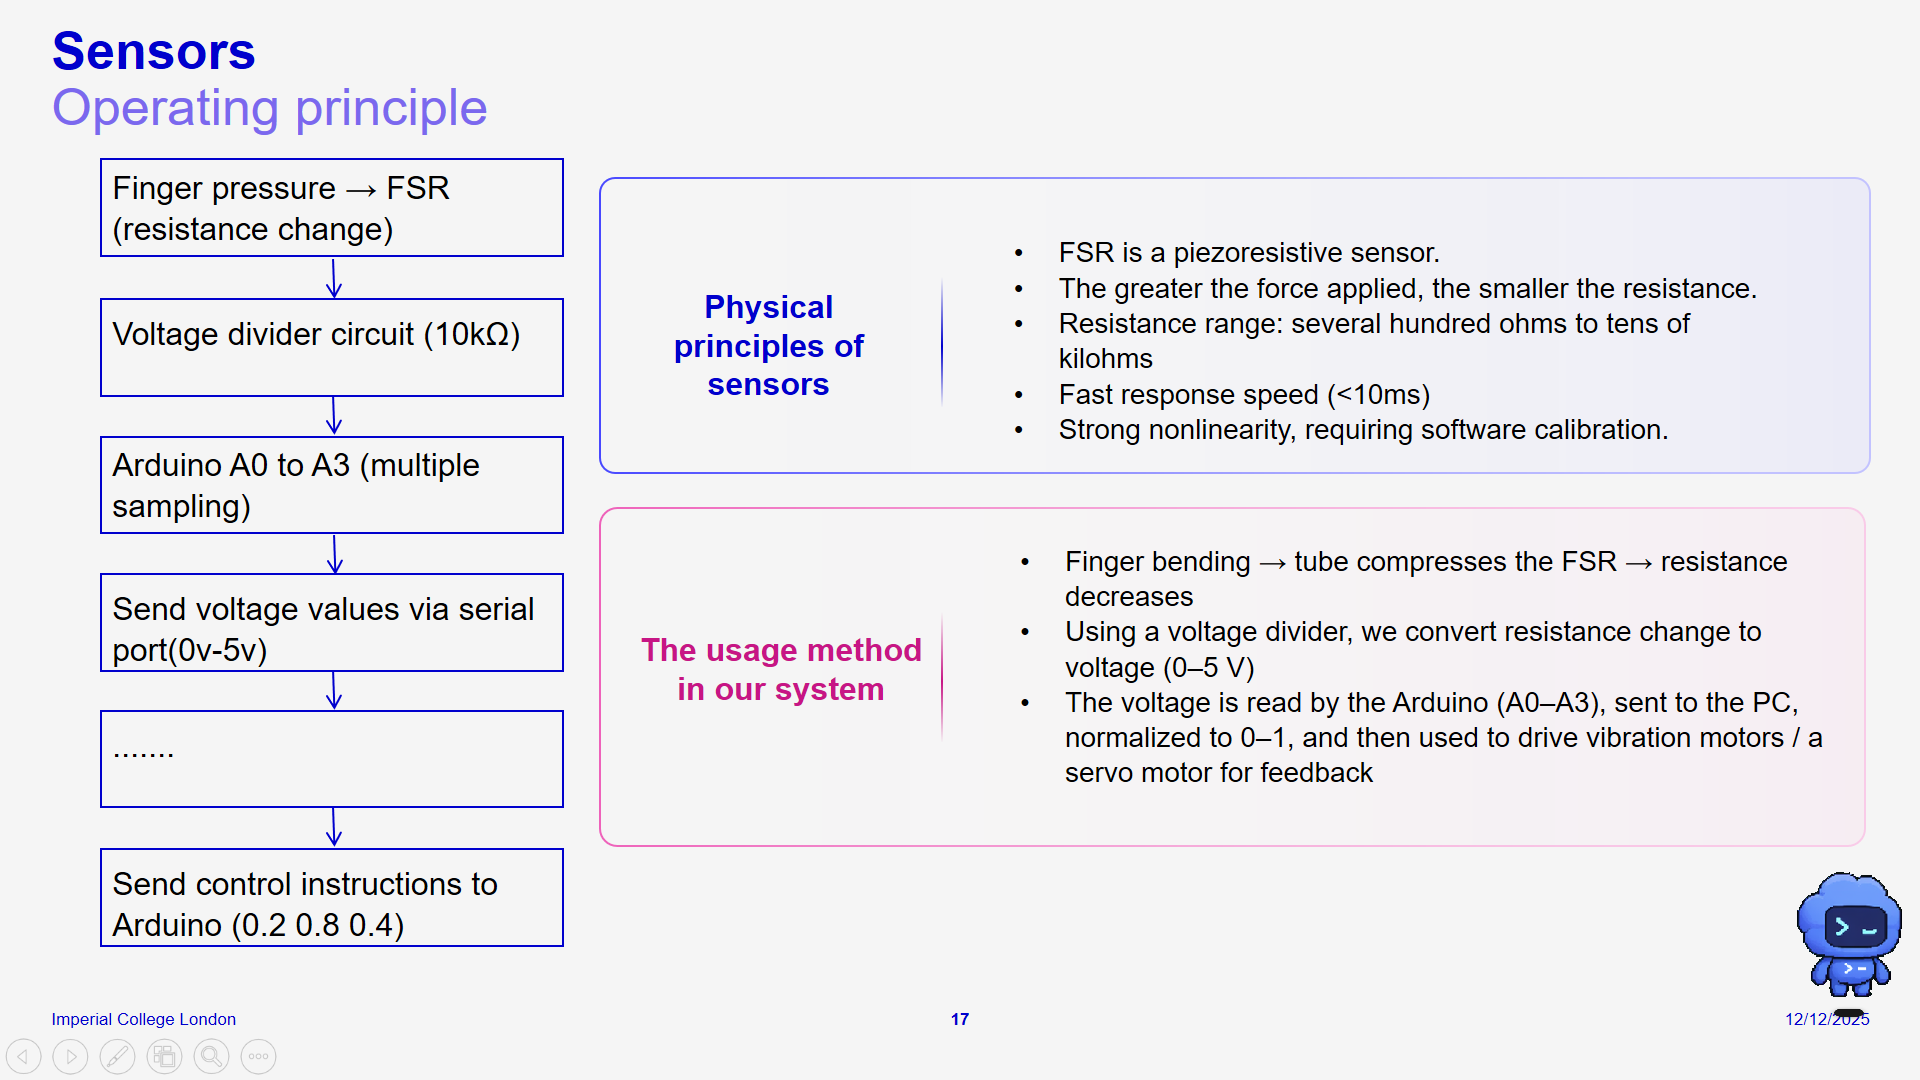
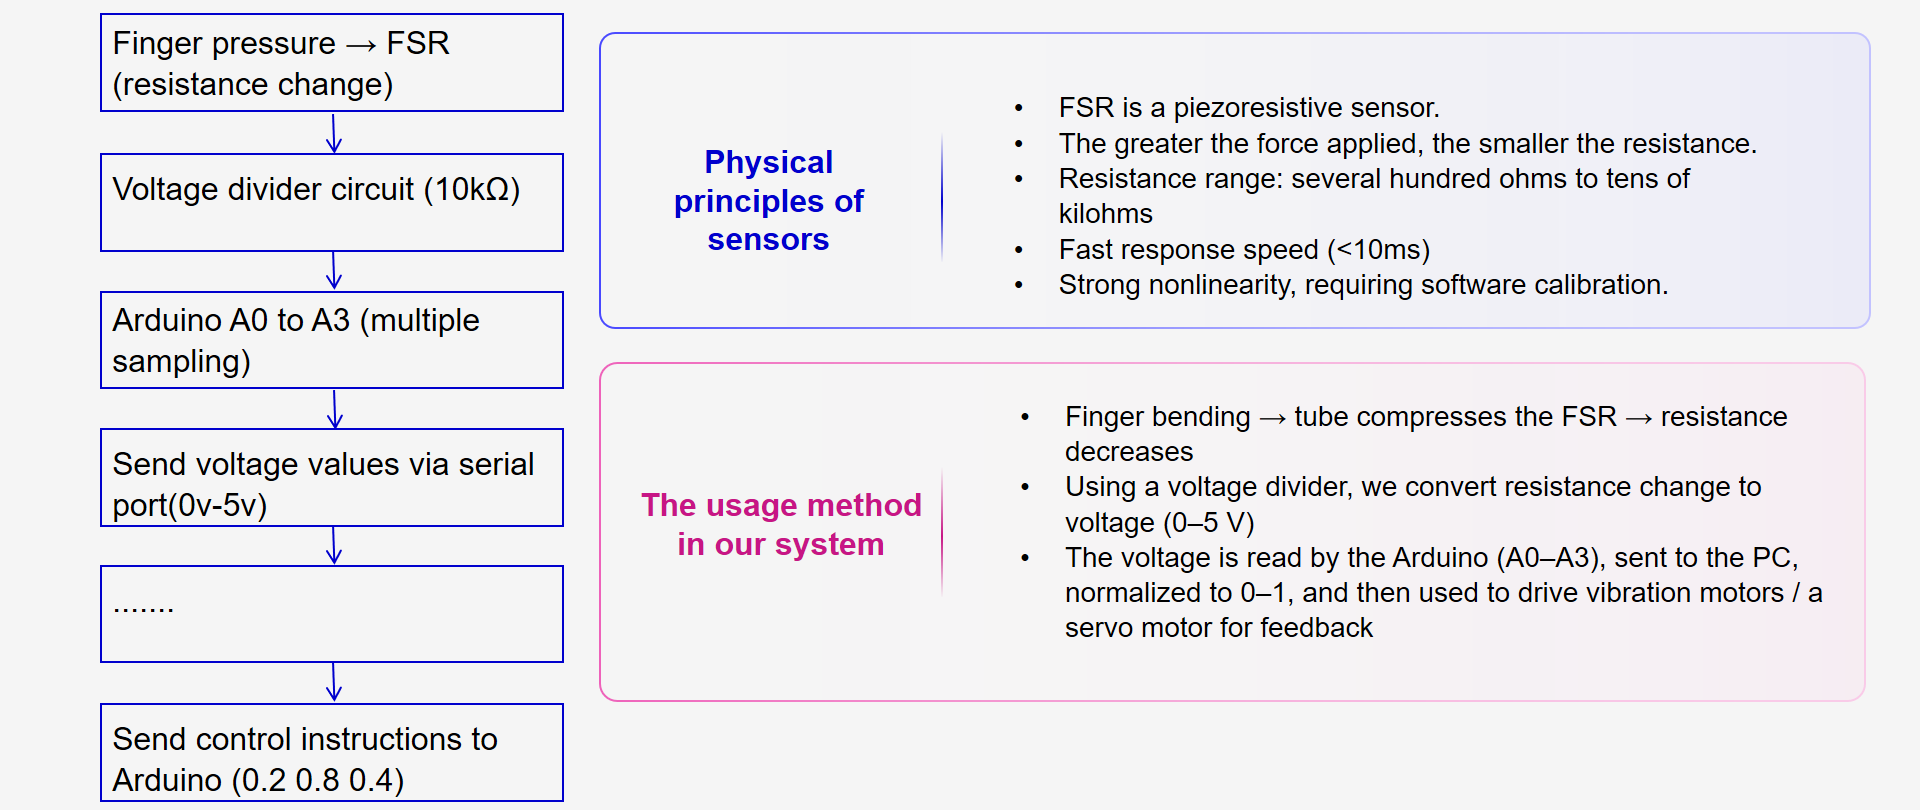
2

diff --git a/_projects/wearable_haptic_finger_microrobot.md b/_projects/wearable_haptic_finger_microrobot.md
@@ -38,10 +38,7 @@ This MRes group project focused on human-in-the-loop teleoperation of a simulate
 
 At this scale, visual feedback alone can make subtle contact forces difficult to judge. The wearable interface explored tactile feedback as one part of a wider microrobotic control and actuation system.
 
-<figure class="hybrid-media">
-<img src="{{ '/assets/images/projects/haptic/system_architecture.png' | relative_url }}" alt="Project overview showing the physical glove prototype, wearable interface electronics, the control interface, and MATLAB/Simulink simulation." class="gallery-image" data-zoomable loading="lazy" decoding="async">
-<figcaption>System overview linking the wearable interface, control software, and simulated microrobot.</figcaption>
-</figure>
+
 
 ## Project team and supervision
 
@@ -61,8 +58,8 @@ The control path connected Arduino sensor inputs and wearable actuators, a C# se
 </figure>
 
 <figure class="hybrid-media">
-<img src="{{ '/assets/images/projects/haptic/teleoperation_control_interface.png' | relative_url }}" alt="C# teleoperation interface with serial-port controls, sensor data monitor, UDP communication panel, and live plots from four FSR sensors." class="gallery-image" data-zoomable loading="lazy" decoding="async">
-<figcaption>Control interface for sensor monitoring and communication with the MATLAB simulation.</figcaption>
+<img src="{{ '/assets/images/projects/haptic/teleoperation_control_interface.png' | relative_url }}" alt="Four time-series plots showing the FSR sensor channels S1–S4 during operation." class="gallery-image" data-zoomable loading="lazy" decoding="async">
+<figcaption>Live traces from the four FSR channels during teleoperation.</figcaption>
 </figure>
 
 ## Haptic interface design
